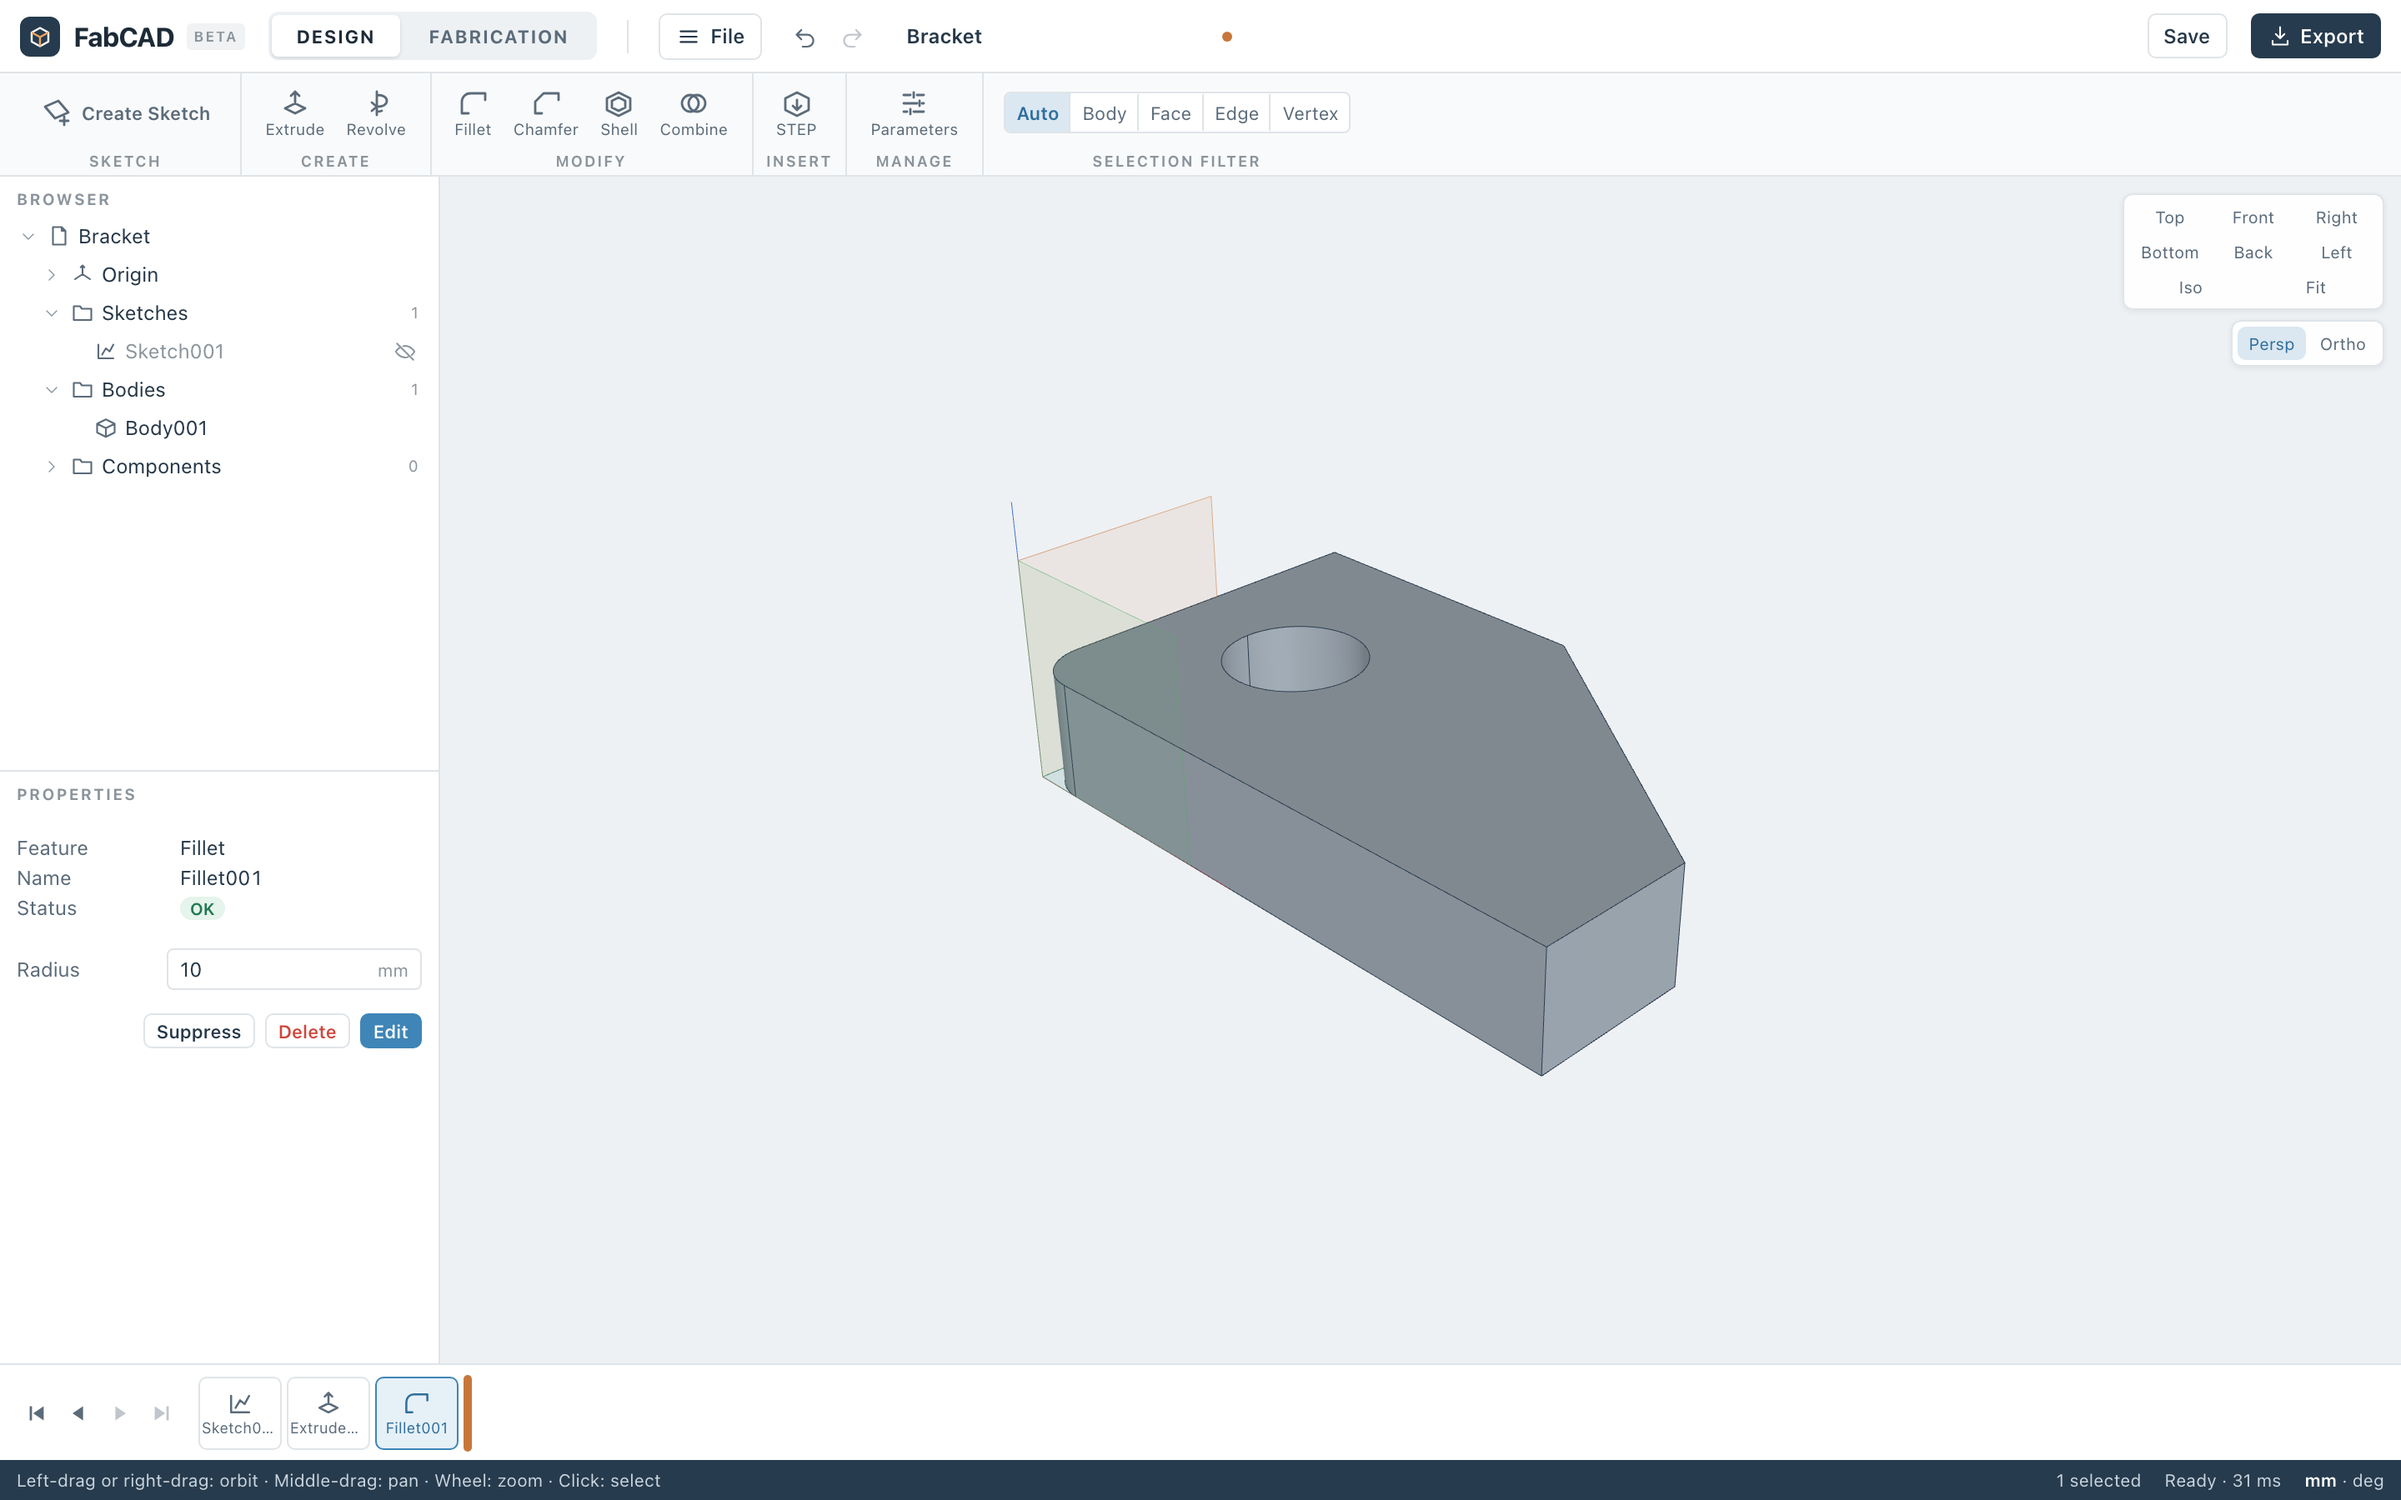
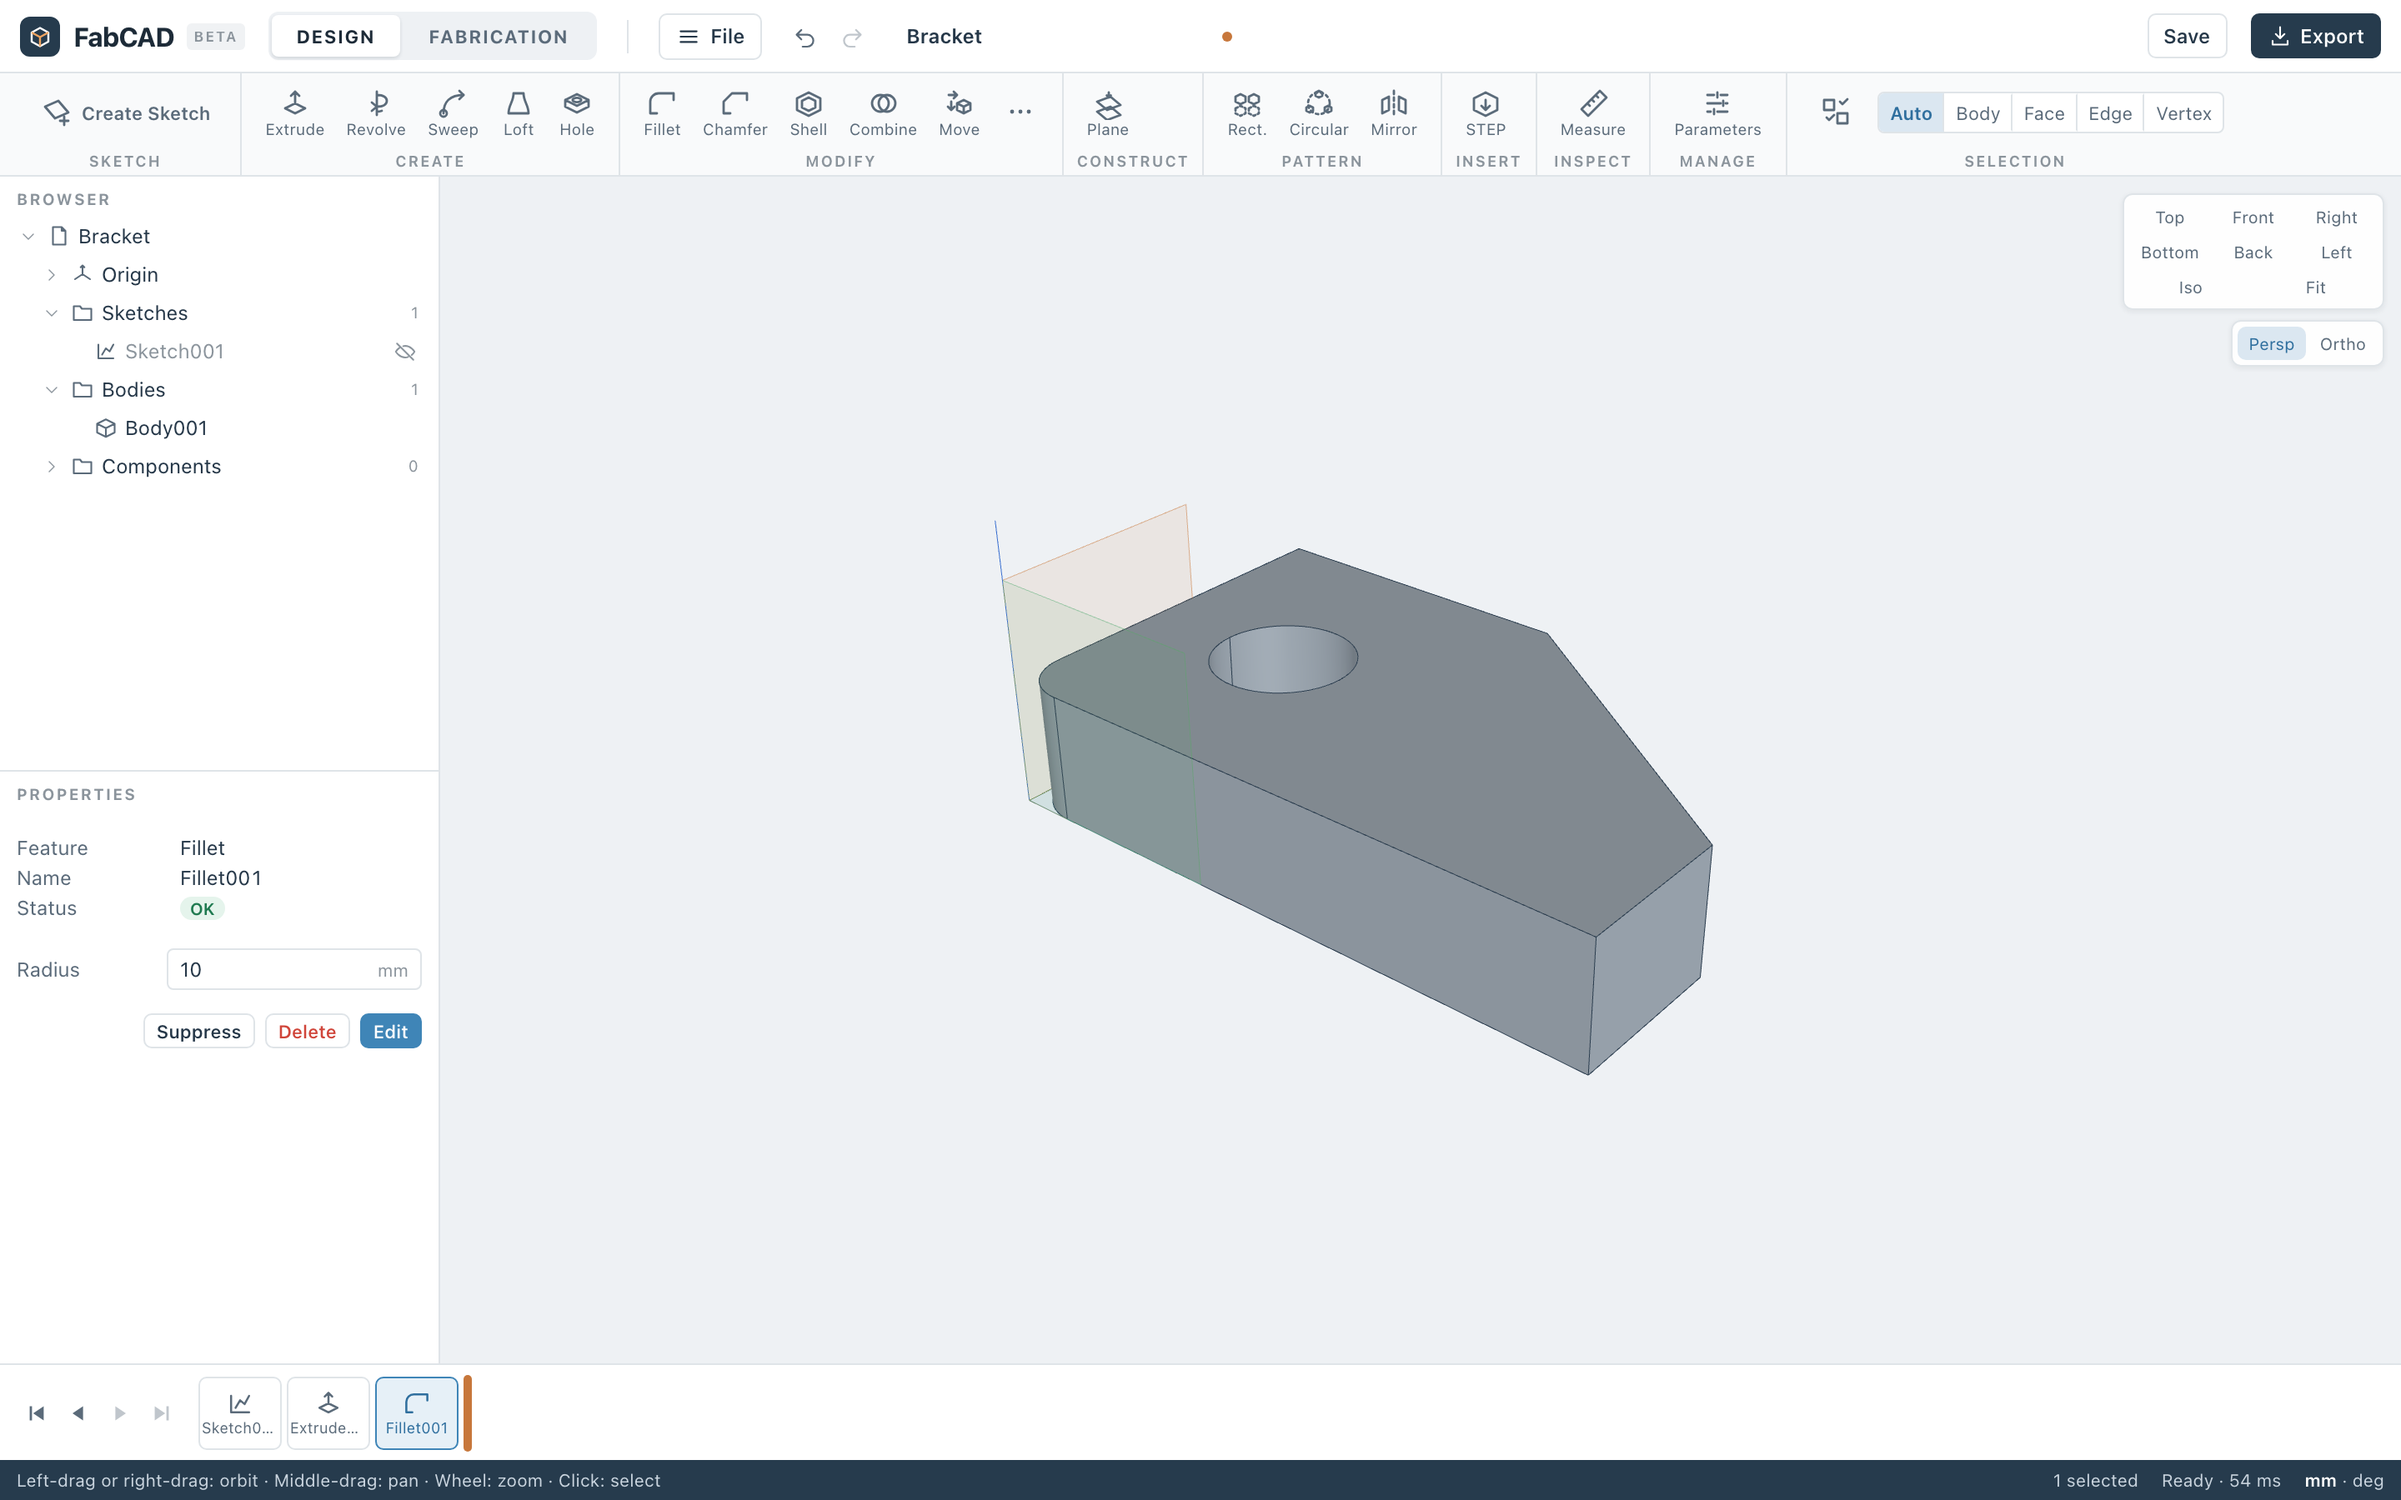
Landing page: current scope of board fabrication, new features, new screenshots
Board fabrication is described as flat parts and rectangular boxes; the
page no longer promises panels for any solid. Adds offset planes,
horizontal / vertical snapping, help and multi-select, and the double
tap on touch screens. Screenshots retaken from the app as it is.

diff --git a/apps/fabcad/index.html b/apps/fabcad/index.html
@@ -6,12 +6,12 @@
     <meta name="theme-color" content="#0d1216" />
     <link rel="icon" type="image/svg+xml" href="./favicon.svg" />
     <title>FabCAD — Parametric 3D CAD with a Fabrication Compiler</title>
-    <meta name="description" content="ブラウザで動くパラメトリック3D CAD。設計した立体を、MDF・アクリル・紙でそのまま切れるSVG / DXFに変換します。" />
+    <meta name="description" content="ブラウザで動くパラメトリック3D CAD。設計した板や箱を、MDF・アクリル・紙でそのまま切れるSVG / DXFに変換します。" />
     <link rel="canonical" href="https://fooping-tech.github.io/FabCAD/" />
     <meta property="og:type" content="website" />
     <meta property="og:site_name" content="FabCAD" />
     <meta property="og:title" content="FabCAD — Parametric 3D CAD with a Fabrication Compiler" />
-    <meta property="og:description" content="ブラウザで動くパラメトリック3D CAD。設計した立体を、MDF・アクリル・紙でそのまま切れるSVG / DXFに変換します。" />
+    <meta property="og:description" content="ブラウザで動くパラメトリック3D CAD。設計した板や箱を、MDF・アクリル・紙でそのまま切れるSVG / DXFに変換します。" />
     <meta property="og:url" content="https://fooping-tech.github.io/FabCAD/" />
     <meta property="og:image" content="https://fooping-tech.github.io/FabCAD/landing/og.png" />
     <meta property="og:image:width" content="1200" />
@@ -56,7 +56,7 @@
           <h1>Design it. Then make it <em>cuttable</em>.</h1>
           <p class="lede">
             <strong>設計から、切れるデータまで。</strong>
-            スケッチを描き、拘束と寸法で形を決め、押し出して立体にする。材料を選ぶと、その立体がレーザーで切れる部品になります。すべてブラウザの中で動きます。
+            スケッチを描き、拘束と寸法で形を決め、押し出して立体にする。材料を選ぶと、板と箱はレーザーで切れる部品に、紙は展開図になります。すべてブラウザの中で動きます。
           </p>
           <div class="cta-row">
             <a class="button primary" href="./app/">FabCADを開く <span aria-hidden="true">→</span></a>
@@ -66,7 +66,7 @@
         </div>
         <div class="wrap wide">
           <figure class="shot hero-shot reveal">
-            <img src="./landing/hero.png" width="2880" height="1800" alt="FabCADの画面。星形の立体を押し出しの矢印で引き出している" />
+            <img src="./landing/hero.png" width="2880" height="1800" alt="FabCADの画面。星形のスケッチを、板の厚みの5.5 mmだけ押し出している" />
           </figure>
         </div>
       </section>
@@ -104,6 +104,7 @@
               <h3>スケッチと拘束</h3>
               <p>線・矩形・円・円弧・楕円・多角形・スロット・スプライン。12種類の拘束と6種類の寸法を、独立した拘束ソルバーが解きます。ドラッグしても拘束は保たれ、残りの自由度と過剰拘束がその場で分かります。</p>
               <ul class="ticks">
+                <li>ほかの点の真上・真横にそろう位置へスナップし、ガイドを表示</li>
                 <li>何もない場所は1 mm単位にスナップ</li>
                 <li>閉じた領域を自動で検出し、クリックで選択</li>
                 <li>立体の稜線や面をスケッチへ投影（Project）</li>
@@ -114,8 +115,9 @@
             <figure class="shot"><img loading="lazy" src="./landing/solid.png" width="2880" height="1800" alt="穴とフィレットのある立体と、操作が並んだタイムライン" /></figure>
             <div class="split-text">
               <h3>履歴のある立体</h3>
-              <p>Extrude、Revolve、Combine、Fillet、Chamfer、Shell。操作はタイムラインに並び、上流を変えると下流だけが再計算されます。寸法には <code>width / 2</code> や <code>material + 0.1 mm</code> のような式が書けます。</p>
+              <p>Extrude、Revolve、Sweep、Loft、Hole、Pattern、Mirror、Fillet、Chamfer、Shell、Combine。操作はタイムラインに並び、上流を変えると下流だけが再計算されます。寸法には <code>width / 2</code> や <code>material + 0.1 mm</code> のような式が書けます。</p>
               <ul class="ticks">
+                <li>平面や面から距離を指定して、構成平面（Offset Plane）を作成</li>
                 <li>すべての操作をUndo / Redo</li>
                 <li>STEPの読み込みと書き出し、STLの書き出し</li>
                 <li>スケッチはSVG / DXFで書き出し</li>
@@ -127,7 +129,11 @@
           <div class="cards reveal">
             <article class="card">
               <h3>Fusionに近い操作</h3>
-              <p><code>L</code> <code>R</code> <code>C</code> <code>D</code> <code>T</code> <code>O</code> <code>E</code> <code>F</code> <code>Q</code> <code>P</code>。面を選んで <code>R</code> を押せば、その面で矩形を描き始めます。右クリックで、選択に合ったメニューが開きます。</p>
+              <p><code>L</code> <code>R</code> <code>C</code> <code>D</code> <code>T</code> <code>O</code> <code>E</code> <code>F</code> <code>Q</code> <code>P</code>。面を選んで <code>R</code> を押せば、その面で矩形を描き始めます。右クリックで、選択に合ったメニューが開きます。<code>Shift</code> + クリックかMulti-Selectで、稜線や面をまとめて選べます。</p>
+            </article>
+            <article class="card">
+              <h3>アイコンからヘルプ</h3>
+              <p>ツールのアイコンを右クリック（タッチでは長押し）すると、そのツールの説明が出ます。用途、必要な選択、パラメータ、制限を、英語と日本語で確認できます。実行中のコマンドはそのままです。</p>
             </article>
             <article class="card">
               <h3>矢印で押し出す</h3>
@@ -145,18 +151,18 @@
         <div class="wrap">
           <p class="eyebrow">FABRICATION</p>
           <h2>Pick a material. Get parts you can cut.</h2>
-          <p class="sub">箱の展開図ジェネレータではありません。どんな立体でも、面・稜線・二面角から部品を作ります。星形も、角錐も、同じ処理を通ります。</p>
+          <p class="sub">立体の面・稜線・二面角から、何を作れるかを先に判定します。板は「平らな部品」と「直方体の箱」、紙は任意の多面体の展開図。作れない形は、理由を示して止めます。</p>
         </div>
         <div class="wrap wide">
           <div class="split reveal">
-            <figure class="shot"><img loading="lazy" src="./landing/sheet.png" width="2880" height="1800" alt="星形の立体をMDFのパネルに分解し、シートに並べた画面" /></figure>
+            <figure class="shot"><img loading="lazy" src="./landing/sheet.png" width="2880" height="1800" alt="箱を6枚のパネルに分解し、星形の板と一緒にMDFのシートに並べた画面" /></figure>
             <div class="split-text">
-              <h3>MDF・アクリル：パネルに分解</h3>
-              <p>面ごとにパネルを作り、板厚のぶんだけ辺を詰めます。上下の板にはスロット、側板にはタブ。タブとスロットは立体の稜線から対応づけるので、位置がずれません。</p>
+              <h3>MDF・アクリル：板と箱</h3>
+              <p>板厚と同じ厚みの形は、輪郭のまま1つの部品になります。六角形でも星形でも、穴があっても同じです。直方体は6枚のパネルに分け、板厚のぶんだけ辺を詰めて、タブとスロットを付けます。</p>
               <ul class="ticks">
+                <li>Flat Part / Rectangular Box を自動で判定して表示</li>
                 <li>Tab &amp; Slot / Finger / Flat を選択</li>
                 <li>切り幅（kerf）と、はめ合いの余裕を補正</li>
-                <li>斜めの角に直角の組み継ぎは使いません</li>
               </ul>
             </div>
           </div>
@@ -175,9 +181,9 @@
         <div class="wrap">
           <div class="cards reveal">
             <article class="card">
-              <h3>作れない形は、先に知らせる</h3>
-              <p>凹んだ角、鋭い角、短い辺、細いタブ。板厚のせいで正確に再現できない箇所を警告します。</p>
-              <p class="quote">This corner cannot be reproduced accurately with 5.5 mm MDF.</p>
+              <h3>作れない形は、作らない</h3>
+              <p>角柱、角錐、屋根、斜めの接合。板で組めると保証できない立体は、それらしいカットデータを出さずに、理由を示して止めます。</p>
+              <p class="quote">Unsupported body — Reason: This body contains non-90° panel joints.</p>
             </article>
             <article class="card">
               <h3>部品と接続の一覧</h3>
@@ -216,7 +222,7 @@
             <div class="split-text">
               <p class="eyebrow">TOUCH</p>
               <h2>Works on a phone, too.</h2>
-              <p>スワイプで移動、ピンチでズーム。指を置いてずらし、離した位置に点を置きます。長押しでメニューが開き、押し出しの矢印も指で引けます。</p>
+              <p>スワイプで移動、ピンチでズーム。指を置いてずらし、離した位置に点を置きます。ダブルタップでメニューが開き、Multiで複数選択、アイコンの長押しでヘルプ。押し出しの矢印も指で引けます。</p>
               <p class="fine">スマートフォンでの動作は、ブラウザのエミュレーションで確認しています。</p>
             </div>
           </div>
@@ -234,7 +240,7 @@
             </article>
             <article class="card">
               <h3>ベータ版です</h3>
-              <p>Sweep、Loft、アセンブリの操作などは未実装です。切り幅やはめ合いの値は、お使いの材料と加工機に合わせて調整してください。実機での加工と造形は未検証です。</p>
+              <p>アセンブリの操作、蓋や仕切りのあるケースの生成、箱以外の立体の板への分解などは未実装です。切り幅やはめ合いの値は、お使いの材料と加工機に合わせて調整してください。実機での加工と造形は未検証です。</p>
             </article>
             <article class="card">
               <h3>ソースコード</h3>
